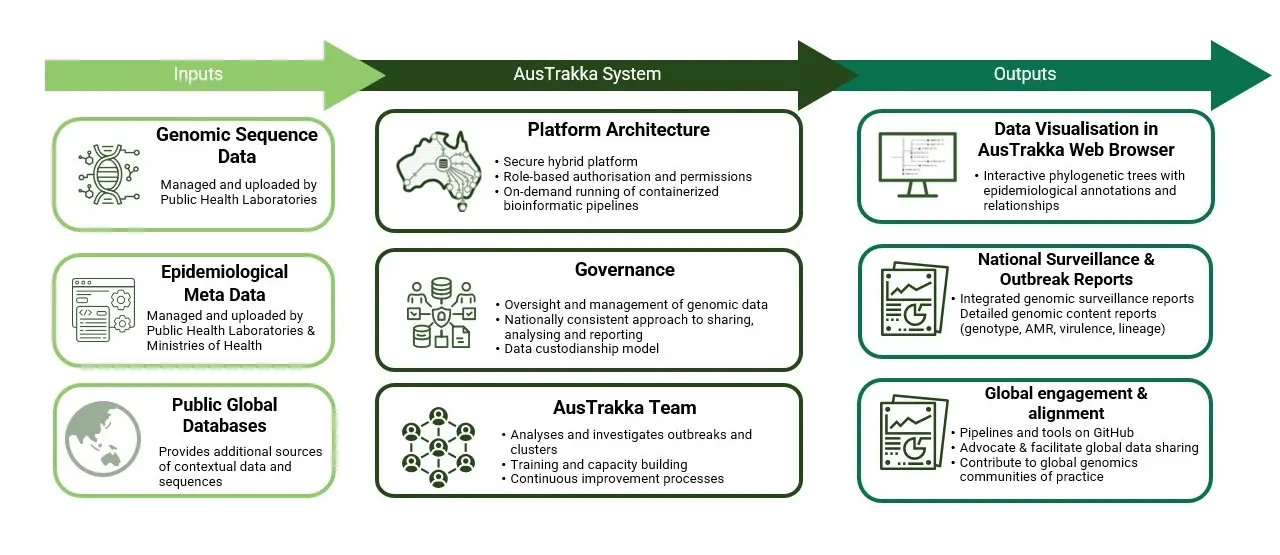
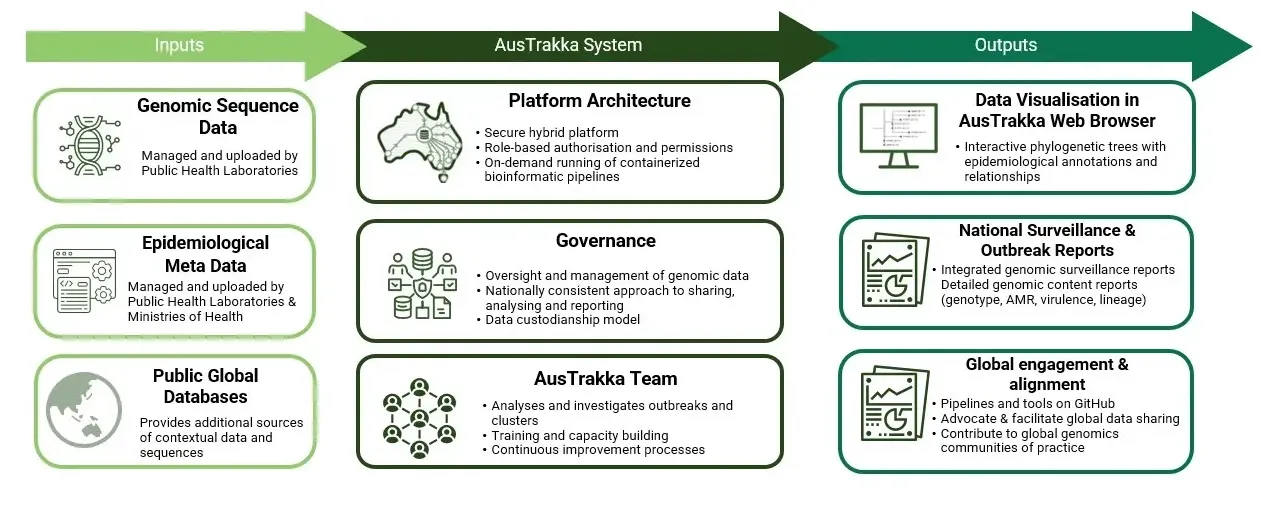
AB#8070 feedback changes, small styling and naming related

diff --git a/src/css/content.css b/src/css/content.css
@@ -22,3 +22,8 @@ h2 {
   margin-top: 1rem;
   margin-bottom: 1rem;
 }
+
+h3 {
+  margin-bottom: 0rem;
+  padding-bottom: 0rem;
+}

diff --git a/src/css/custom.css b/src/css/custom.css
@@ -61,7 +61,7 @@
 }
 
 figure {
-  margin: 25px auto;
+  margin: 10px auto;
 }
 
 figcaption {
